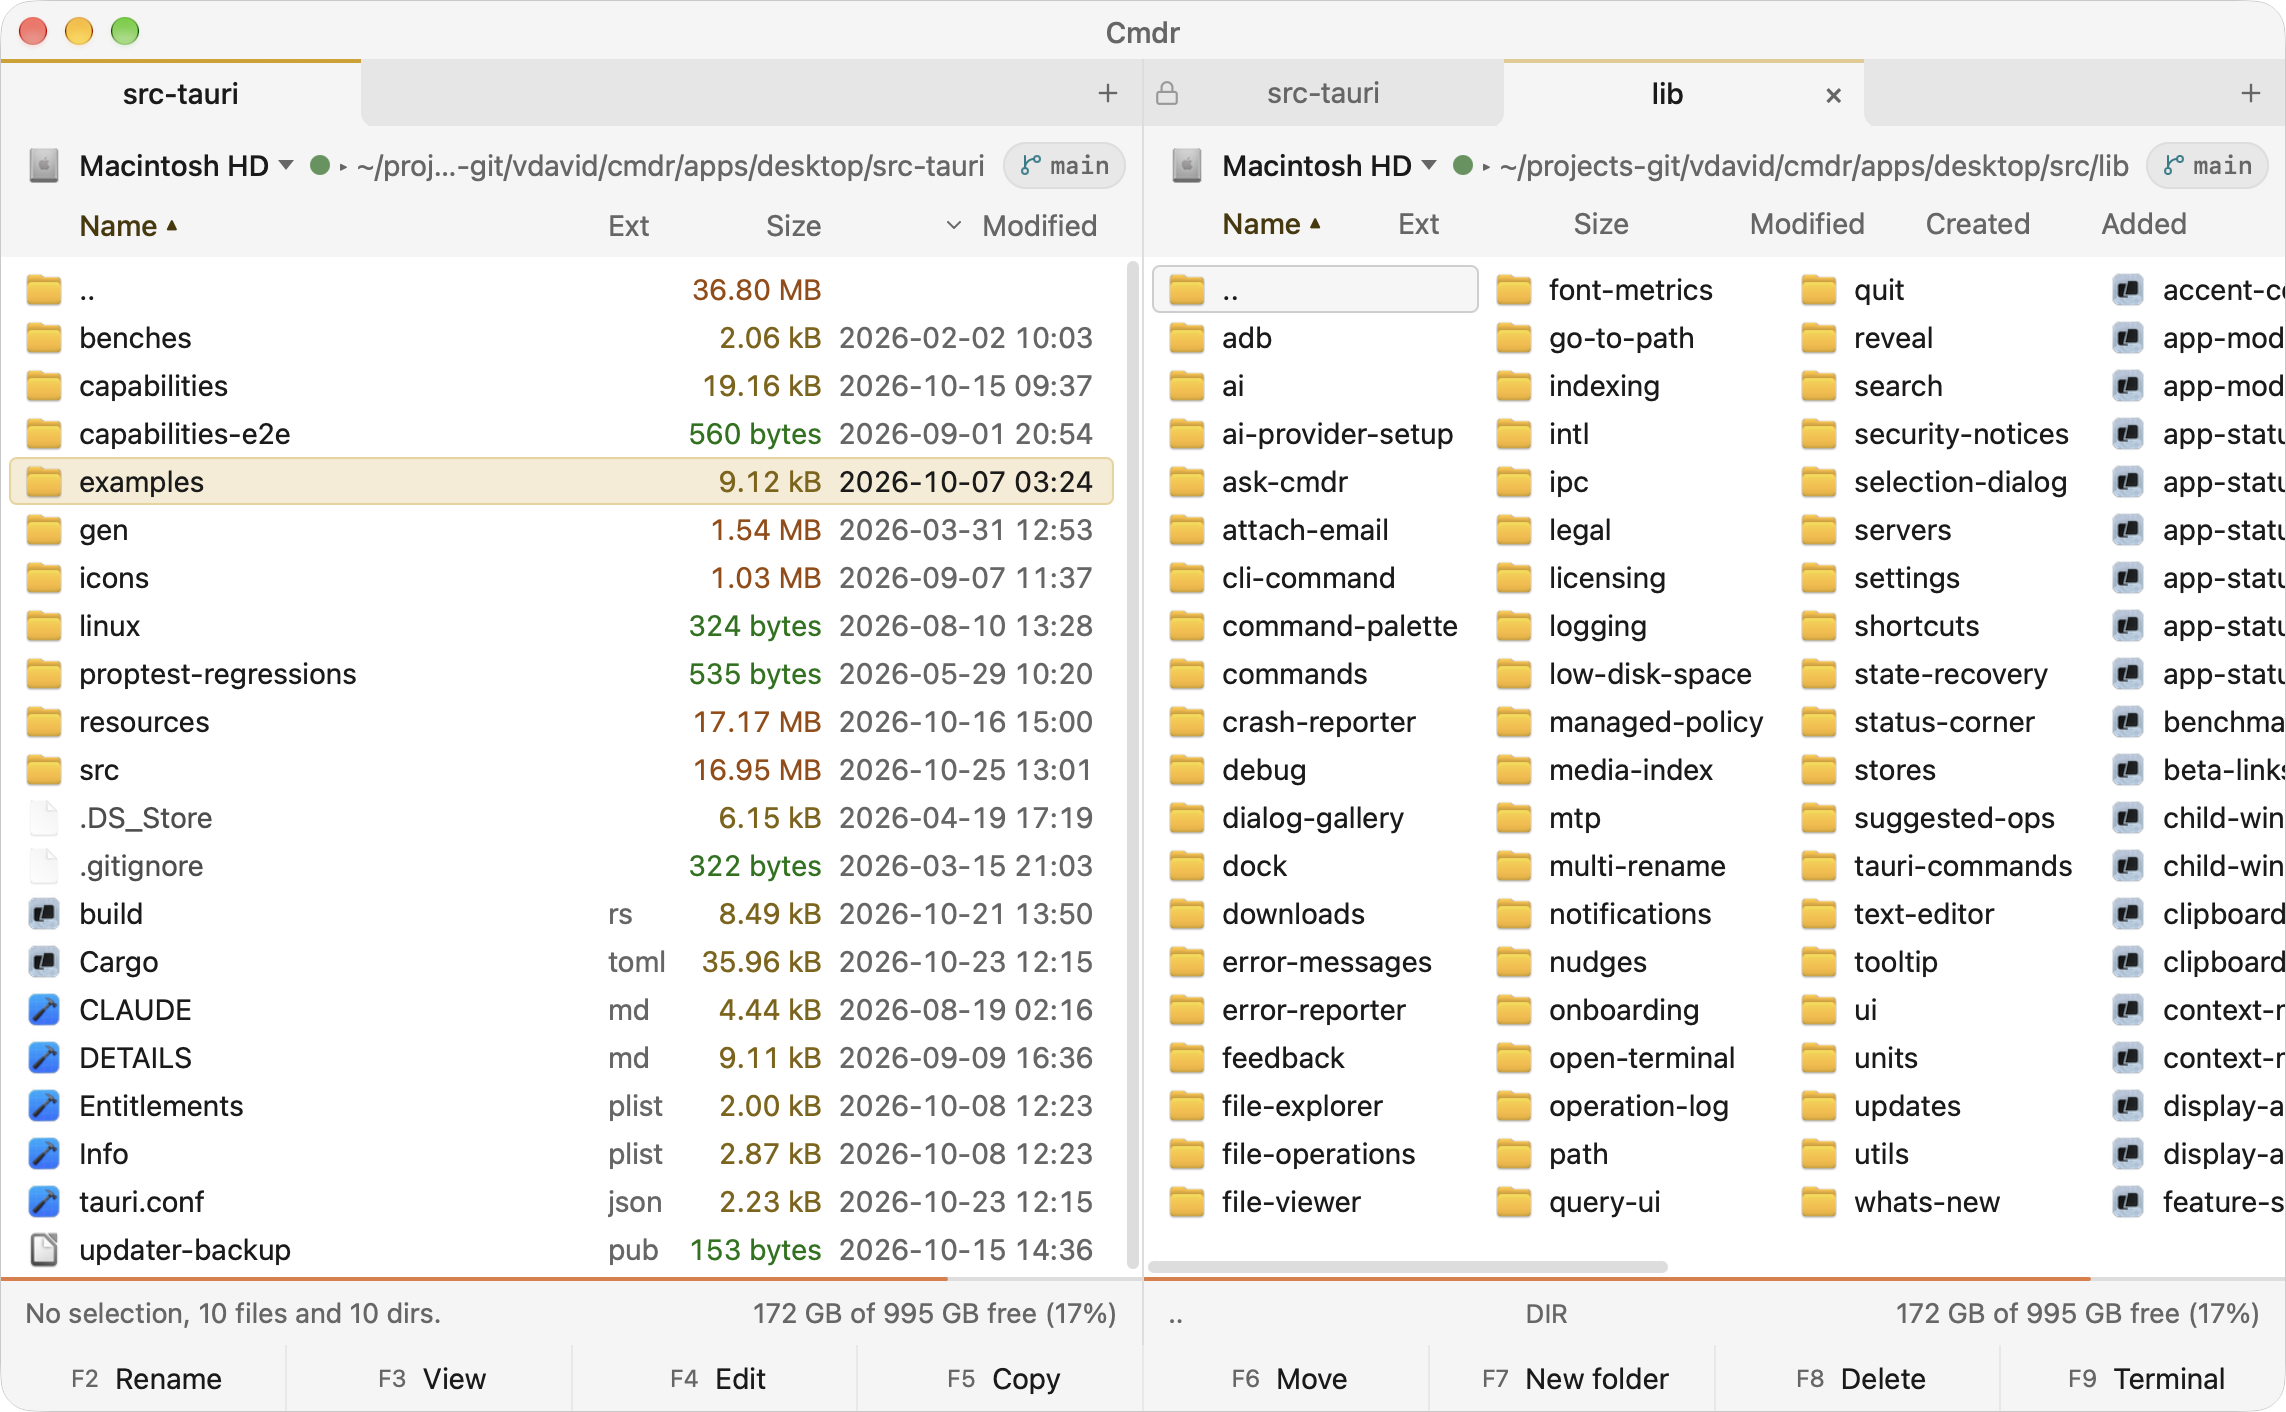
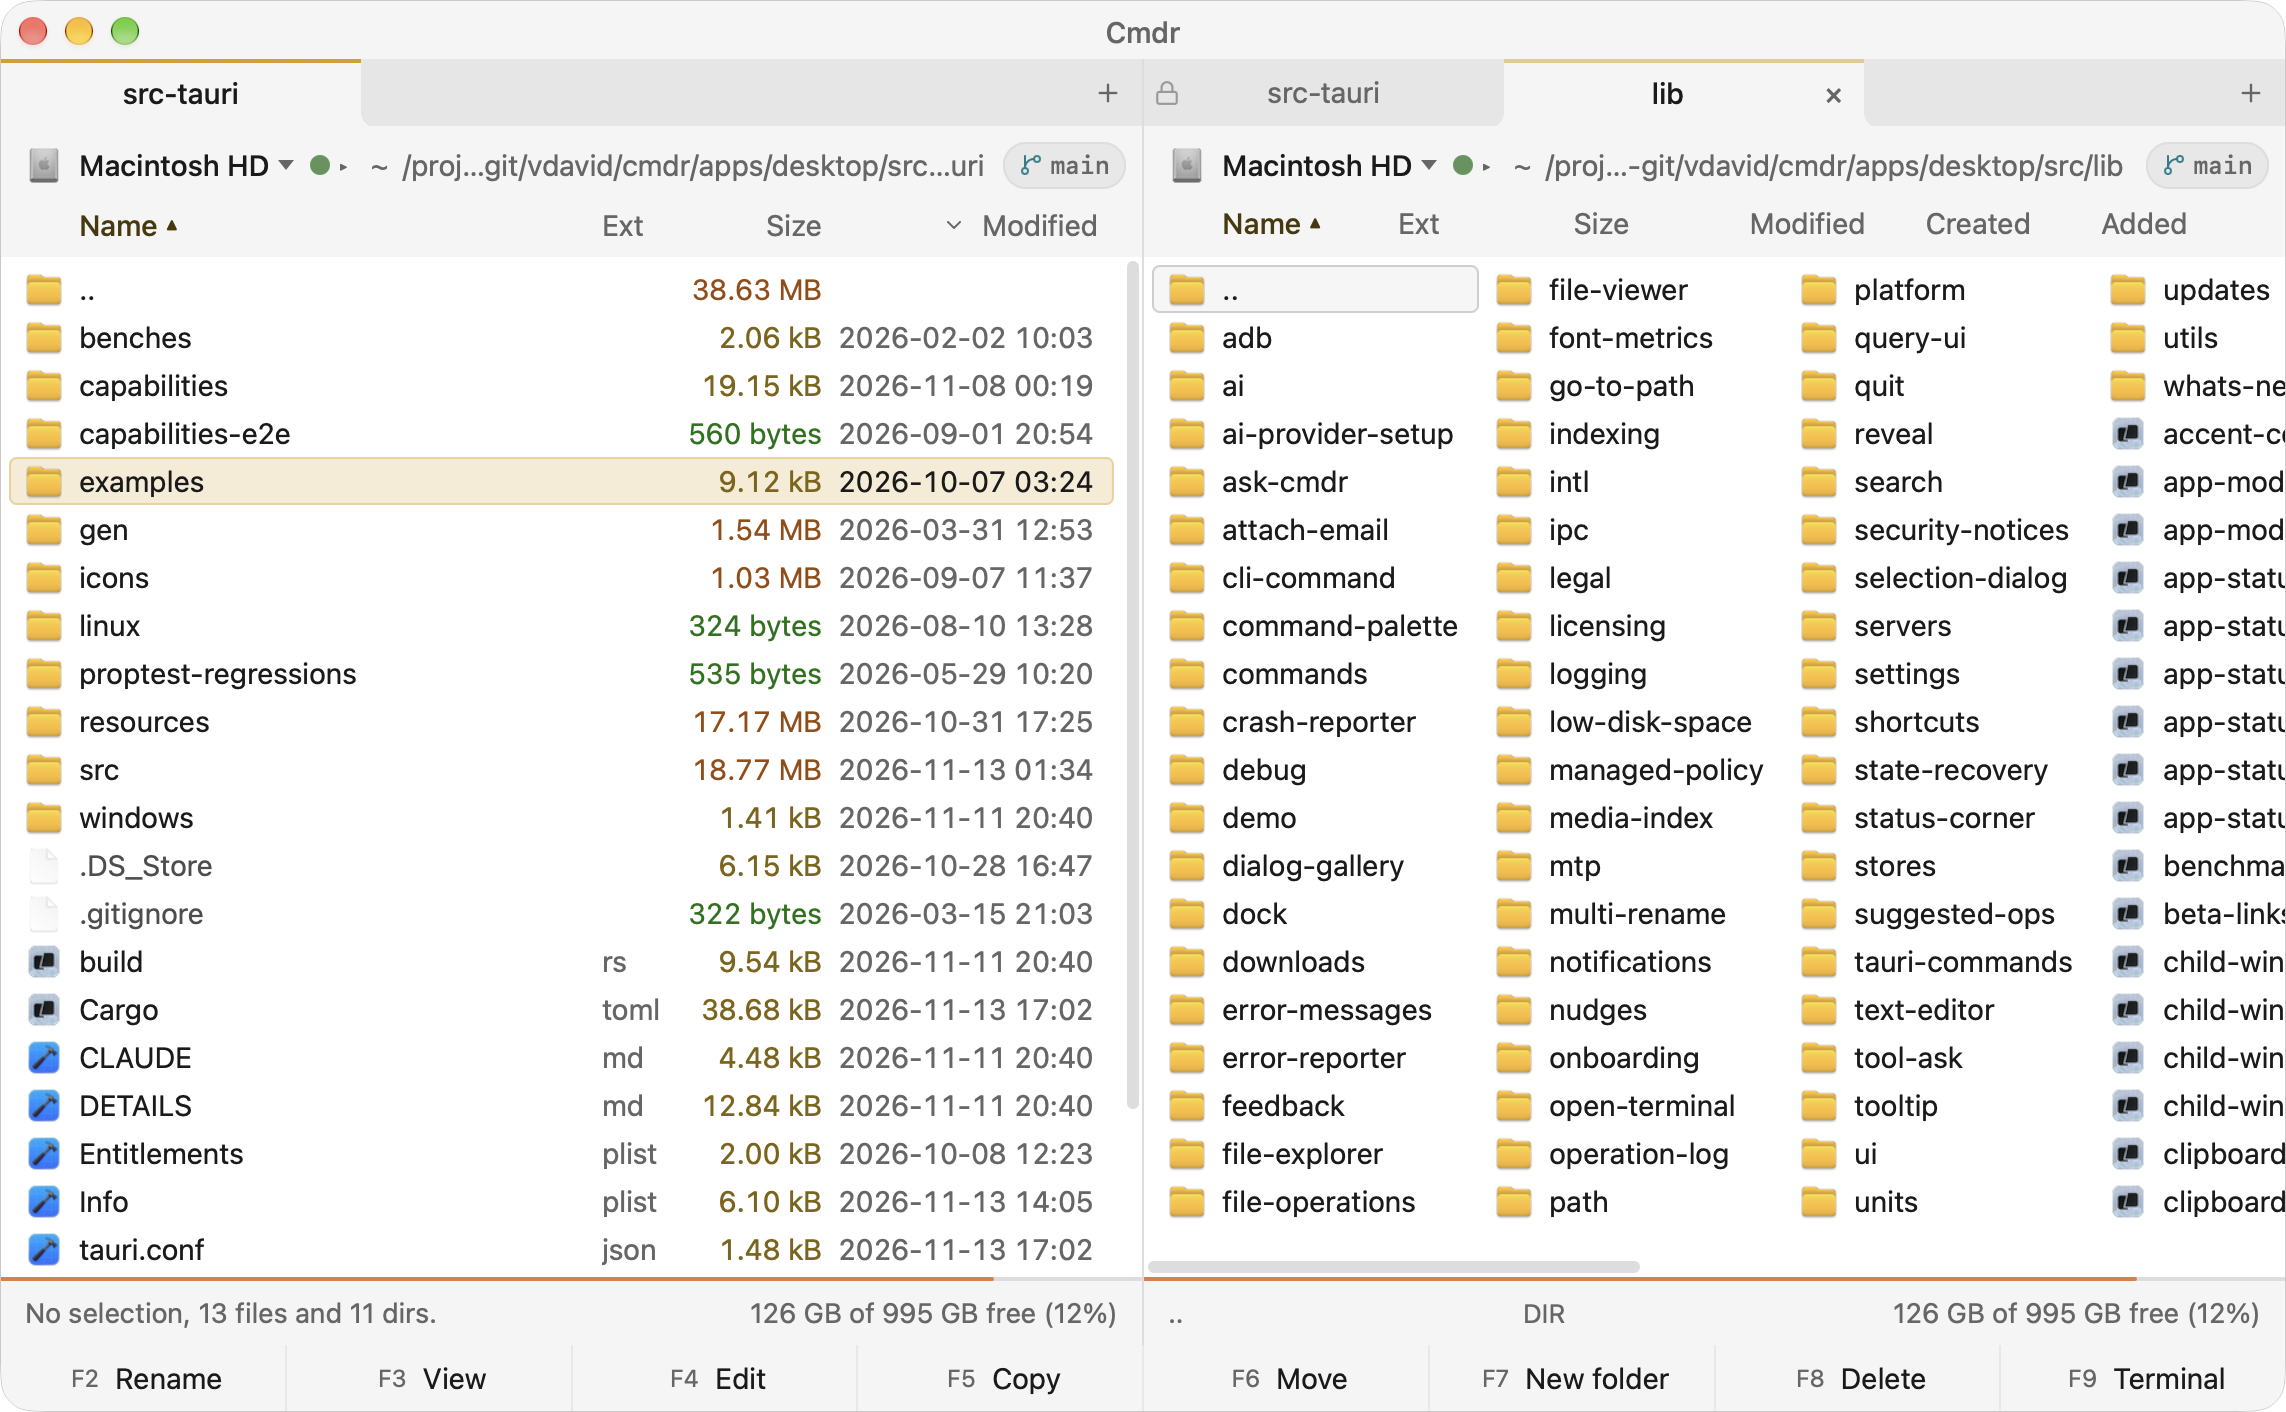
chore(brand): the README, website hero, blog comparison, and AlternativeTo show v0.61.0's UI, and the listing files record what went to MacUpdate and AlternativeTo on 2026-11-14
- Reshot all eight `brand/screenshots/` masters with `pnpm marketing:shots` (last reshoot 2026-10-26); `hero-cutouts.json` didn't move.
- Regenerated the website hero from them (`regenerate-hero.sh`) and the blog's Total Commander comparison crops.
- `macupdate.md`: v0.61.0 submitted 2026-11-14 with the older screenshots, and the correction that the v0.53.0 submission never carried the dynamic download URL (the form still loaded the pinned `vdavid/cmdr` v0.53.0 DMG link).
- `alternativeto.md`: v0.61.0 edit submitted 2026-11-14 with the new "Source available" + BUSL-1.1 license option (it replaces the old open-source checkbox workaround), the `getcmdr/cmdr` source URL, all eight new screenshots captioned with their version, and the admin note as sent.

diff --git a/brand/listings/alternativeto.md b/brand/listings/alternativeto.md
@@ -4,11 +4,9 @@ Live: https://alternativeto.net/software/cmdr/about/. Edit it while signed in; c
 queue, and the "Note about your changes" field at the bottom speeds that up.
 
 Status: the 2026-09-18 v0.46.0 edit is live (checked 2026-09-24: description, tags, and the single $59 price all match
-this file). The fields below are what went in with the v0.53.0 edit, **submitted 2026-10-15, awaiting admin approval**.
-The form first said "Cmdr has pending changes" (likely an earlier edit still in their queue), then reported success, so
-check the live page in a week or two; the last change before it went live 27 days earlier. Edit the fields here first
-when refreshing, then paste. Refresh cadence and what to update per release: `docs/guides/releasing.md` § "Refreshing
-the app-directory listings".
+this file). The v0.53.0 edit (submitted 2026-10-15) went live by 2026-11-14. The fields below are the v0.61.0 edit (see
+below); check the live page in a week or two. Edit the fields here first when refreshing, then paste. Refresh cadence
+and what to update per release: `docs/guides/releasing.md` § "Refreshing the app-directory listings".
 
 v0.47.0 changed nothing here (checked 2026-09-24): AlternativeTo shows no version or changelog, and nothing in the
 description, tags, or features became false. Its new features (the viewer's long lines, favorite letter shortcuts, the
@@ -29,7 +27,10 @@ certificate, and the data-safety sweep add to what's there without contradicting
 the cap, adding any of them means cutting something else. The Features box "Command line interface" stays unchecked: the
 new `cmdr <path>` command only opens a folder in the app, which isn't what that box promises.
 
-**Not yet submitted** (edited 2026-11-11 and 2026-11-13, one edit to send):
+**v0.61.0 edit submitted 2026-11-14, awaiting admin approval.** On top of the description and languages below, it
+switched the license to "Source available" + BUSL-1.1, moved the Source URL to `getcmdr/cmdr`, and replaced all seven
+screenshots with the eight 2026-11-14 masters. The form showed the v0.53.0 edit's text, so that one had gone live by
+then. What the v0.61.0 edit carried (edited 2026-11-11 and 2026-11-13):
 
 - Ukrainian and Czech raised the language count (2026-11-11), so the Localization line and the Supported languages field
   below changed. The live page keeps the old count until this edit goes in. The `copy-language-count` check keeps the
@@ -106,7 +107,10 @@ AI features (optional, off by default, can stay 100% local with a built-in LLM):
   renders a single price rather than a range: v0.46.0 retired the $59/year subscription and the $199 perpetual, leaving
   Commercial at $59 paid once (a year of updates included, $39/year after that to keep getting them). Enterprise
   publishes no number, so it contributes none here.
-- **Is Opensource?**: checked. License `Other`. Source URL `https://github.com/getcmdr/cmdr`
+- **Source code**: `Source available`, License `Business Source License 1.1 (BUSL-1.1)`, Source URL
+  `https://github.com/getcmdr/cmdr`. (The form had only an "Is Opensource?" checkbox until late 2026; the three-way
+  Proprietary / Open source / Source available choice appeared by 2026-11-14, and the Source URL stays visible with
+  "Source available".)
 
 ## Tags
 
@@ -154,16 +158,17 @@ Leave unchecked, deliberately:
 ## Icon and screenshots
 
 - **Icon**: the current app icon.
-- **Screenshots**: replace all three live ones ("Cmdr v0.24 (light)", "Cmdr v0.24 (dark)", "Settings (light)"), which
-  predate the 0.36 facelift, with these, captioned without a version number so they don't advertise their own age:
-  1. `brand/screenshots/app-main-light.webp` — "Two-pane main view (light)"
-  2. `brand/screenshots/app-main-dark.webp` — "Two-pane main view (dark)"
-  3. `brand/screenshots/search-light.webp` — "Search your files (light)"
-  4. `brand/screenshots/search-dark.webp` — "Search your files (dark)"
-  5. `brand/screenshots/chat-light.webp` — "Ask Cmdr about your files (light)"
-  6. `brand/screenshots/chat-dark.webp` — "Ask Cmdr about your files (dark)"
-  7. `brand/screenshots/settings-light.webp` — "Settings (light)"
-  8. `brand/screenshots/settings-dark.webp` — "Settings (dark)"
+- **Screenshots**: all eight masters, in this order, each captioned with the version they show. David wants the version
+  in the caption, so bump it with every reshoot. Upload the new set first (they land on top), then mark every old one
+  for removal with its trash icon. That toggles it greyed out with an undo, and no confirm dialog appears.
+  1. `brand/screenshots/app-main-light.webp` — "Cmdr 0.61.0 (light)"
+  2. `brand/screenshots/app-main-dark.webp` — "Cmdr 0.61.0 (dark)"
+  3. `brand/screenshots/search-light.webp` — "Search, Cmdr 0.61.0 (light)"
+  4. `brand/screenshots/search-dark.webp` — "Search, Cmdr 0.61.0 (dark)"
+  5. `brand/screenshots/chat-light.webp` — "AI chat, Cmdr 0.61.0 (light)"
+  6. `brand/screenshots/chat-dark.webp` — "AI chat, Cmdr 0.61.0 (dark)"
+  7. `brand/screenshots/settings-light.webp` — "Settings, Cmdr 0.61.0 (light)"
+  8. `brand/screenshots/settings-dark.webp` — "Settings, Cmdr 0.61.0 (dark)"
 
   Limit is 3 MB each; JPEG, PNG, or WebP, so the lossless WebP masters upload as they are. If their uploader ever balks:
   `magick app-main-light.webp app-main-light.png`. Reshoot per `docs/guides/screenshots.md`. YouTube videos can be added
@@ -171,10 +176,10 @@ Leave unchecked, deliberately:
 
 ## Note about your changes
 
-Their optional box for the reviewing admin. For the v0.61.0 edit (prepared 2026-11-13, not submitted yet):
+Their optional box for the reviewing admin. The note that went with the v0.61.0 edit (2026-11-14):
 
 ```
-Hi! A small refresh for v0.61.0: Cmdr now speaks 17 languages (Ukrainian and Czech added to the list), and NFS joined the supported servers. Thanks!
+Hi! A small refresh for v0.61.0: Cmdr now speaks 17 languages (Ukrainian and Czech added to the list), NFS joined the supported servers, and the screenshots are fresh. I also switched the license to the new "Source available" option with BUSL-1.1, which is what Cmdr really is, and updated the source URL to the repo's new home. Thanks!
 ```
 
 The note that went with the v0.53.0 edit:
@@ -197,10 +202,9 @@ Also, my ask from last time (if it's not done already): Cmdr is source-available
 
 ## Still pending after this pass
 
-- **The page still labels Cmdr "Open Source"** under Licensing (checked 2026-09-24), after the BSL wording request went
-  in with both the v0.45.0 and v0.46.0 edits. Admins approved everything else in those edits and ignored this, so a
-  third ask through the same note field is unlikely to land. If it's worth pursuing, their contact form is the next
-  step.
+- **Check that the "Open Source" label is gone** once the v0.61.0 edit is approved. The edit set the new "Source
+  available" + BUSL-1.1 option, so the page summary's "open-source" wording should follow. If the admins' generated
+  summary still says "open-source", their contact form is the next step.
 
 ## Settled calls
 
@@ -211,9 +215,8 @@ So they don't get re-litigated at the next edit pass:
   the description false (no feature graduated out of alpha, no claim broke, and the description names no prices), so
   that release changed nothing here, per `docs/guides/releasing.md` § "Refreshing the app-directory listings".
 
-- **Keep "Is Opensource?" checked.** Unchecking it hides the Source URL field, and a public link to the source is worth
-  more than a precise badge. The description carries the BSL correction instead, in its third paragraph rather than as
-  fine print, and the note above asks the admins to fix the page summary they generate.
+- **Source code is "Source available" + BUSL-1.1**, which keeps the Source URL field. The description's third paragraph
+  still states the BSL license too.
 - **Keep the `portable` tag and the Portable feature.** True in the only sense the tag can mean on macOS: a `.app` runs
   from wherever you put it, a USB stick included. Settings and the index stay in `~/Library` and Full Disk Access is per
   machine, but that's every Mac app, and nobody reads the tag as a promise about state.

diff --git a/brand/listings/macupdate.md b/brand/listings/macupdate.md
@@ -4,24 +4,27 @@ Live: https://cmdr.macupdate.com/ (accepted from the 2026-09-18 v0.46.0 submissi
 through). Submission form: https://member.macupdate.com/content/submit (needs a MacUpdate member account). The same form
 creates and modifies a listing: type `Cmdr` into "Modify an existing listing?" at the top to load this one.
 
-Status: **v0.61.0 prepared 2026-11-13, not submitted yet** (the fields below are what goes in). Before it, v0.53.0 was
-submitted 2026-10-15 with the reviewer pinged the same day; the live page showed v0.46.0 then. The v0.47.0, v0.49.0, and
-v0.55.0 updates were prepared but never submitted, and v0.54.0 and v0.56.0–v0.60.0 got none, so the v0.61.0 Version
-changes end with highlights from v0.54.0–v0.60.0. The Description changed in three places since v0.53.0, each for a
-feature v0.61.0 graduated out of alpha: NFS joins "More servers", restic backups get a bullet, and the built-in chat
-reads "beta version".
+Status: **v0.61.0 submitted 2026-11-14** (the fields below are what went in), with the screenshots converted from the
+2026-10-26 masters; the 2026-11-14 reshoot goes in with the next update. Before it, v0.53.0 was submitted 2026-10-15
+with the reviewer pinged the same day; the live page showed v0.46.0 then. The v0.47.0, v0.49.0, and v0.55.0 updates were
+prepared but never submitted, and v0.54.0 and v0.56.0–v0.60.0 got none, so the v0.61.0 Version changes end with
+highlights from v0.54.0–v0.60.0. The Description changed in three places since v0.53.0, each for a feature v0.61.0
+graduated out of alpha: NFS joins "More servers", restic backups get a bullet, and the built-in chat reads "beta
+version".
 
 ❗ **A submission sits unreviewed until David pings a MacUpdate reviewer directly.** The v0.46.0 one only went through
 after a ping, and the earlier ones never did. The contact is in the vault's directory blitz plan (MacUpdate entry), so
 every handoff ends with "submit, then ping". The v0.53.0 submission skipped v0.47–v0.52, so its Description picked up
 what shipped in between (multi-rename, compare folders, folder sizes on demand, S3).
 
-**The Download URL is the dynamic `getcmdr.com/download/latest/universal` link** (since the v0.53.0 submission), so it
-never goes stale and downloads count toward MacUpdate. Their guidelines ask for "the direct URL to the installer package
-(e.g., .pkg .dmg, .zip)", and this one takes 3 redirects to a signed `release-assets.githubusercontent.com` blob URL
-that doesn't end in `.dmg` (verified 2026-09-18). The two submissions that used it went unreviewed, but so did
-everything until a reviewer got pinged, so the missing ping, not the redirect, is the likely cause. If MacUpdate ever
-refuses it, fall back to the version-pinned GitHub Releases URL
+**The Download URL is the dynamic `getcmdr.com/download/latest/universal` link** (since the v0.61.0 submission), so it
+never goes stale and downloads count toward MacUpdate. Loading the listing into the form on 2026-11-14 still showed the
+pinned `github.com/vdavid/cmdr/.../v0.53.0/...dmg` URL and the old `vdavid/cmdr` support URL, so the v0.53.0 submission
+didn't carry the dynamic link after all; always overwrite every URL field from this file. Their guidelines ask for "the
+direct URL to the installer package (e.g., .pkg .dmg, .zip)", and this one takes 3 redirects to a signed
+`release-assets.githubusercontent.com` blob URL that doesn't end in `.dmg` (verified 2026-09-18). The two submissions
+that used it went unreviewed, but so did everything until a reviewer got pinged, so the missing ping, not the redirect,
+is the likely cause. If MacUpdate ever refuses it, fall back to the version-pinned GitHub Releases URL
 (`https://github.com/getcmdr/cmdr/releases/download/vX.Y.Z/Cmdr_X.Y.Z_universal.dmg`), bumped per release.
 
 "Version changes" covers the release being submitted (the whole minor line, patches included, once patches start getting
